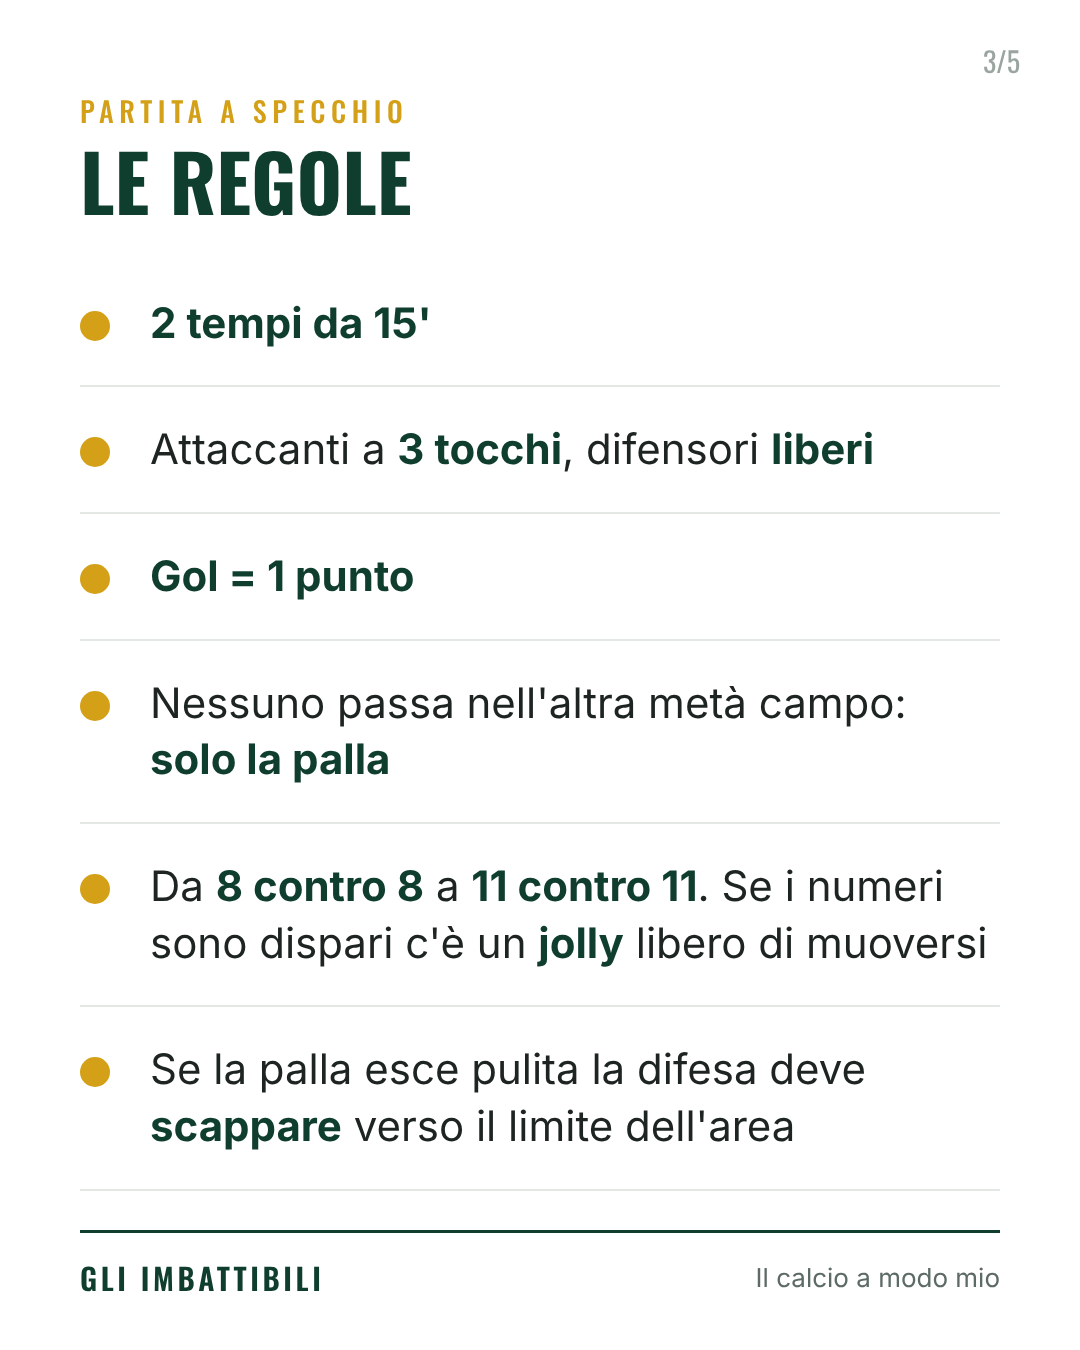
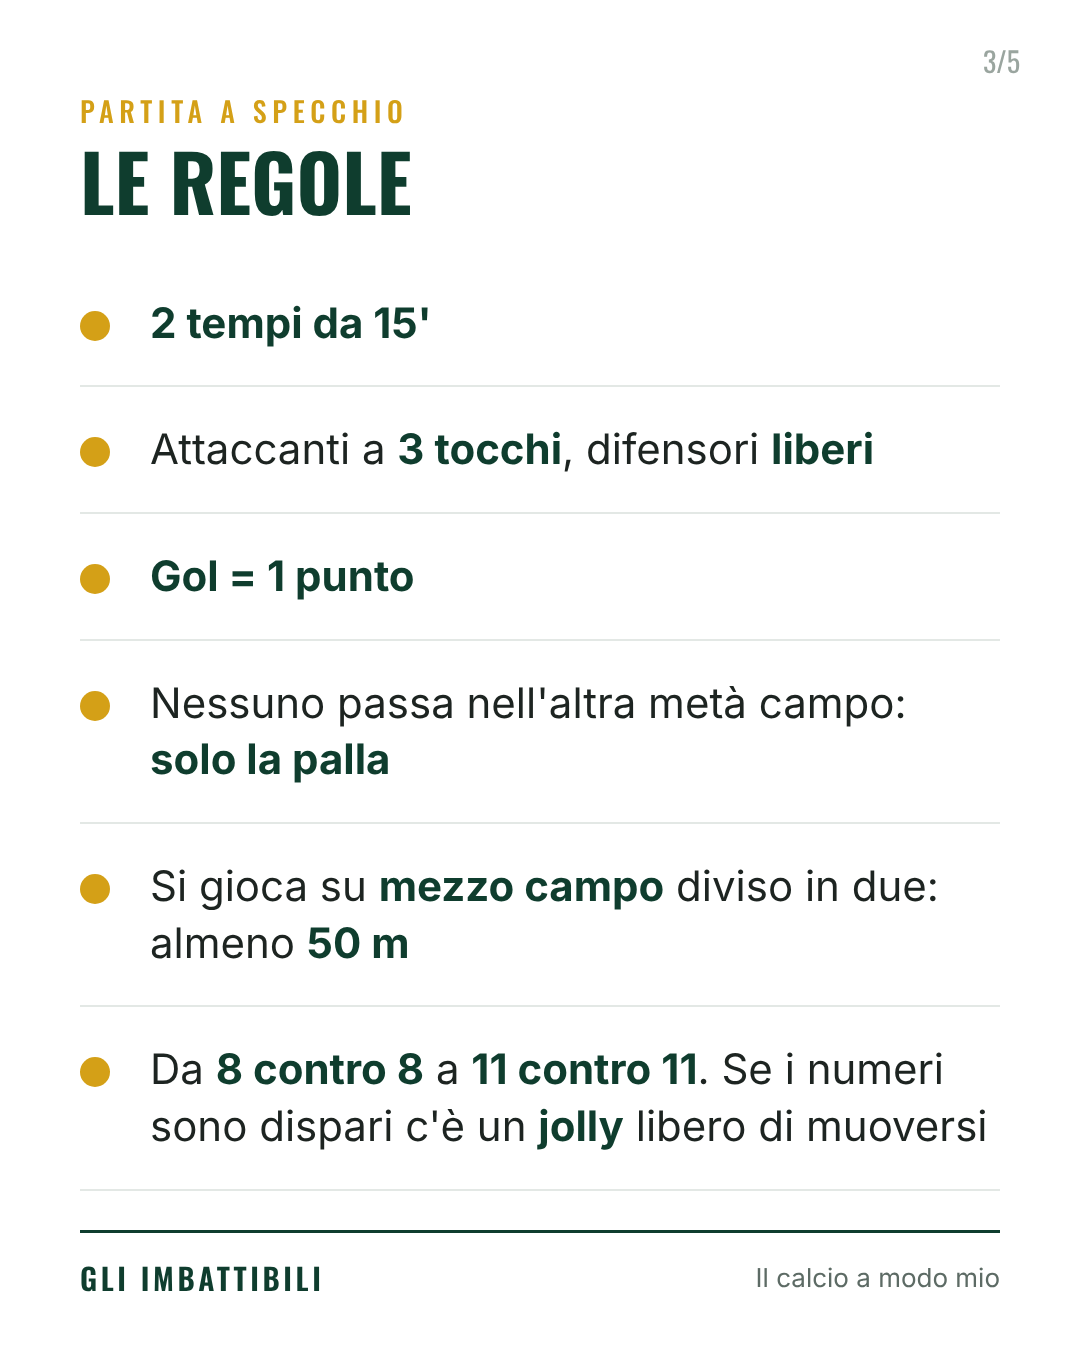
Preventiva 2: tolta regola 'scappare', aggiunto campo (mezzo campo, almeno 50 m)
Claude-Session: https://claude.ai/code/session_01Y6imChDnJpMKHUHGGzDa7m

Changed region(s): [[0.1222, 0.7778, 0.9167, 0.8711], [0.1528, 0.6222, 0.9167, 0.7156]]

diff --git a/marketing/social/post-solo6-4x5.html b/marketing/social/post-solo6-4x5.html
@@ -122,7 +122,7 @@ h1, h2 { font-family: Oswald, sans-serif; font-weight: 700; text-transform: uppe
   <div class="num">3/5</div>
   <div class="kicker">Partita a specchio</div>
   <h2>Le regole</h2>
-  <ul class="punti"><li><b>2 tempi da 15'</b></li><li>Attaccanti a <b>3 tocchi</b>, difensori <b>liberi</b></li><li><b>Gol = 1 punto</b></li><li>Nessuno passa nell'altra metà campo: <b>solo la palla</b></li><li>Da <b>8 contro 8</b> a <b>11 contro 11</b>. Se i numeri sono dispari c'è un <b>jolly</b> libero di muoversi</li><li>Se la palla esce pulita la difesa deve <b>scappare</b> verso il limite dell'area</li></ul>
+  <ul class="punti"><li><b>2 tempi da 15'</b></li><li>Attaccanti a <b>3 tocchi</b>, difensori <b>liberi</b></li><li><b>Gol = 1 punto</b></li><li>Nessuno passa nell'altra metà campo: <b>solo la palla</b></li><li>Si gioca su <b>mezzo campo</b> diviso in due: almeno <b>50 m</b></li><li>Da <b>8 contro 8</b> a <b>11 contro 11</b>. Se i numeri sono dispari c'è un <b>jolly</b> libero di muoversi</li></ul>
   <div class="marchio"><b>GLI IMBATTIBILI</b><span>Il calcio a modo mio</span></div>
 </section>
 <section class="slide int"><div class="num">4/5</div><div class="kicker">Partita a specchio</div><h2>Gli obiettivi</h2><div class="obiettivo"><span>Obiettivo primario</span>Pressione sui 4 difensori<i>L'uscita deve essere forzata e non pulita</i><span class='sec'>Obiettivo secondario</span><i>Le marcature preventive</i></div><div class="marchio"><b>GLI IMBATTIBILI</b><span>Il calcio a modo mio</span></div></section>

diff --git a/marketing/social/post-solo6-9x16.html b/marketing/social/post-solo6-9x16.html
@@ -122,7 +122,7 @@ h1, h2 { font-family: Oswald, sans-serif; font-weight: 700; text-transform: uppe
   <div class="num">3/5</div>
   <div class="kicker">Partita a specchio</div>
   <h2>Le regole</h2>
-  <ul class="punti"><li><b>2 tempi da 15'</b></li><li>Attaccanti a <b>3 tocchi</b>, difensori <b>liberi</b></li><li><b>Gol = 1 punto</b></li><li>Nessuno passa nell'altra metà campo: <b>solo la palla</b></li><li>Da <b>8 contro 8</b> a <b>11 contro 11</b>. Se i numeri sono dispari c'è un <b>jolly</b> libero di muoversi</li><li>Se la palla esce pulita la difesa deve <b>scappare</b> verso il limite dell'area</li></ul>
+  <ul class="punti"><li><b>2 tempi da 15'</b></li><li>Attaccanti a <b>3 tocchi</b>, difensori <b>liberi</b></li><li><b>Gol = 1 punto</b></li><li>Nessuno passa nell'altra metà campo: <b>solo la palla</b></li><li>Si gioca su <b>mezzo campo</b> diviso in due: almeno <b>50 m</b></li><li>Da <b>8 contro 8</b> a <b>11 contro 11</b>. Se i numeri sono dispari c'è un <b>jolly</b> libero di muoversi</li></ul>
   <div class="marchio"><b>GLI IMBATTIBILI</b><span>Il calcio a modo mio</span></div>
 </section>
 <section class="slide int"><div class="num">4/5</div><div class="kicker">Partita a specchio</div><h2>Gli obiettivi</h2><div class="obiettivo"><span>Obiettivo primario</span>Pressione sui 4 difensori<i>L'uscita deve essere forzata e non pulita</i><span class='sec'>Obiettivo secondario</span><i>Le marcature preventive</i></div><div class="marchio"><b>GLI IMBATTIBILI</b><span>Il calcio a modo mio</span></div></section>

diff --git a/marketing/social/genera-post.py b/marketing/social/genera-post.py
@@ -205,8 +205,8 @@ POST = [
                "Attaccanti a <b>3 tocchi</b>, difensori <b>liberi</b>",
                "<b>Gol = 1 punto</b>",
                "Nessuno passa nell'altra metà campo: <b>solo la palla</b>",
-               "Da <b>8 contro 8</b> a <b>11 contro 11</b>. Se i numeri sono dispari c'è un <b>jolly</b> libero di muoversi",
-               "Se la palla esce pulita la difesa deve <b>scappare</b> verso il limite dell'area"],
+               "Si gioca su <b>mezzo campo</b> diviso in due: almeno <b>50 m</b>",
+               "Da <b>8 contro 8</b> a <b>11 contro 11</b>. Se i numeri sono dispari c'è un <b>jolly</b> libero di muoversi"],
         fine_sub="Secondo gradino del percorso sulla <b>marcatura preventiva</b>. La Juniores che ha vinto il campionato <b>senza perdere una partita</b>.",
     ),
 ]
